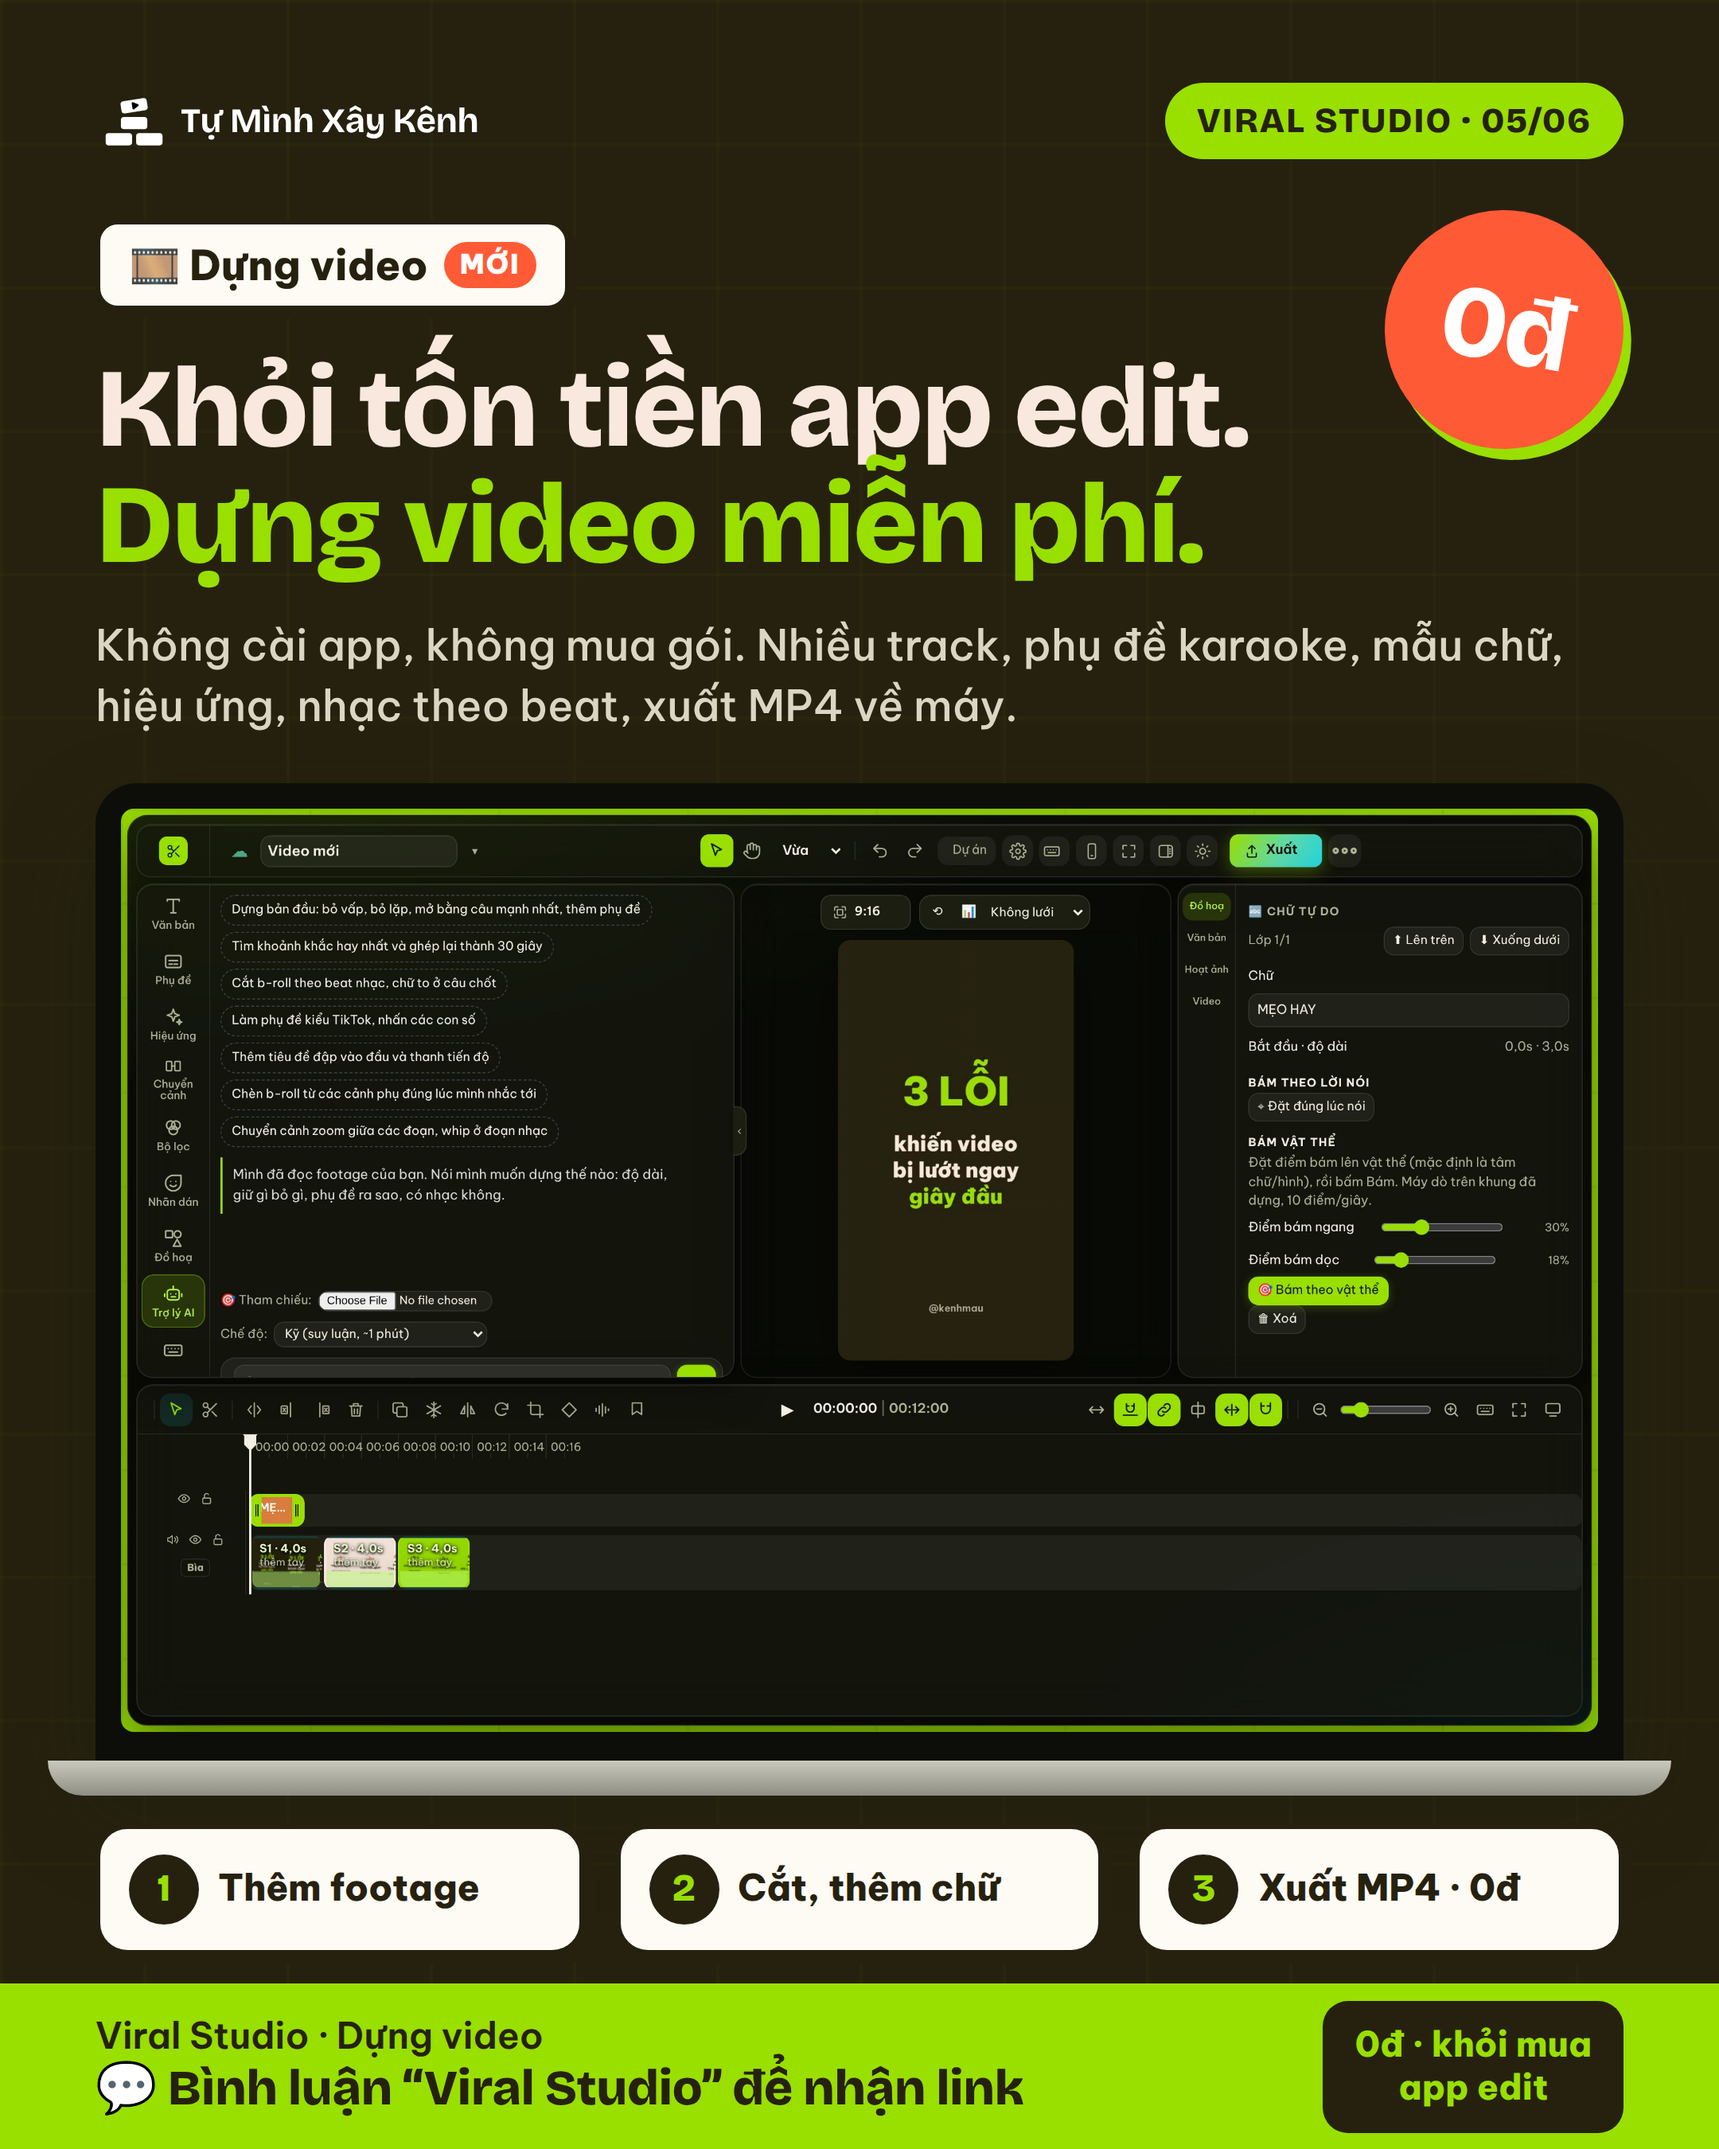
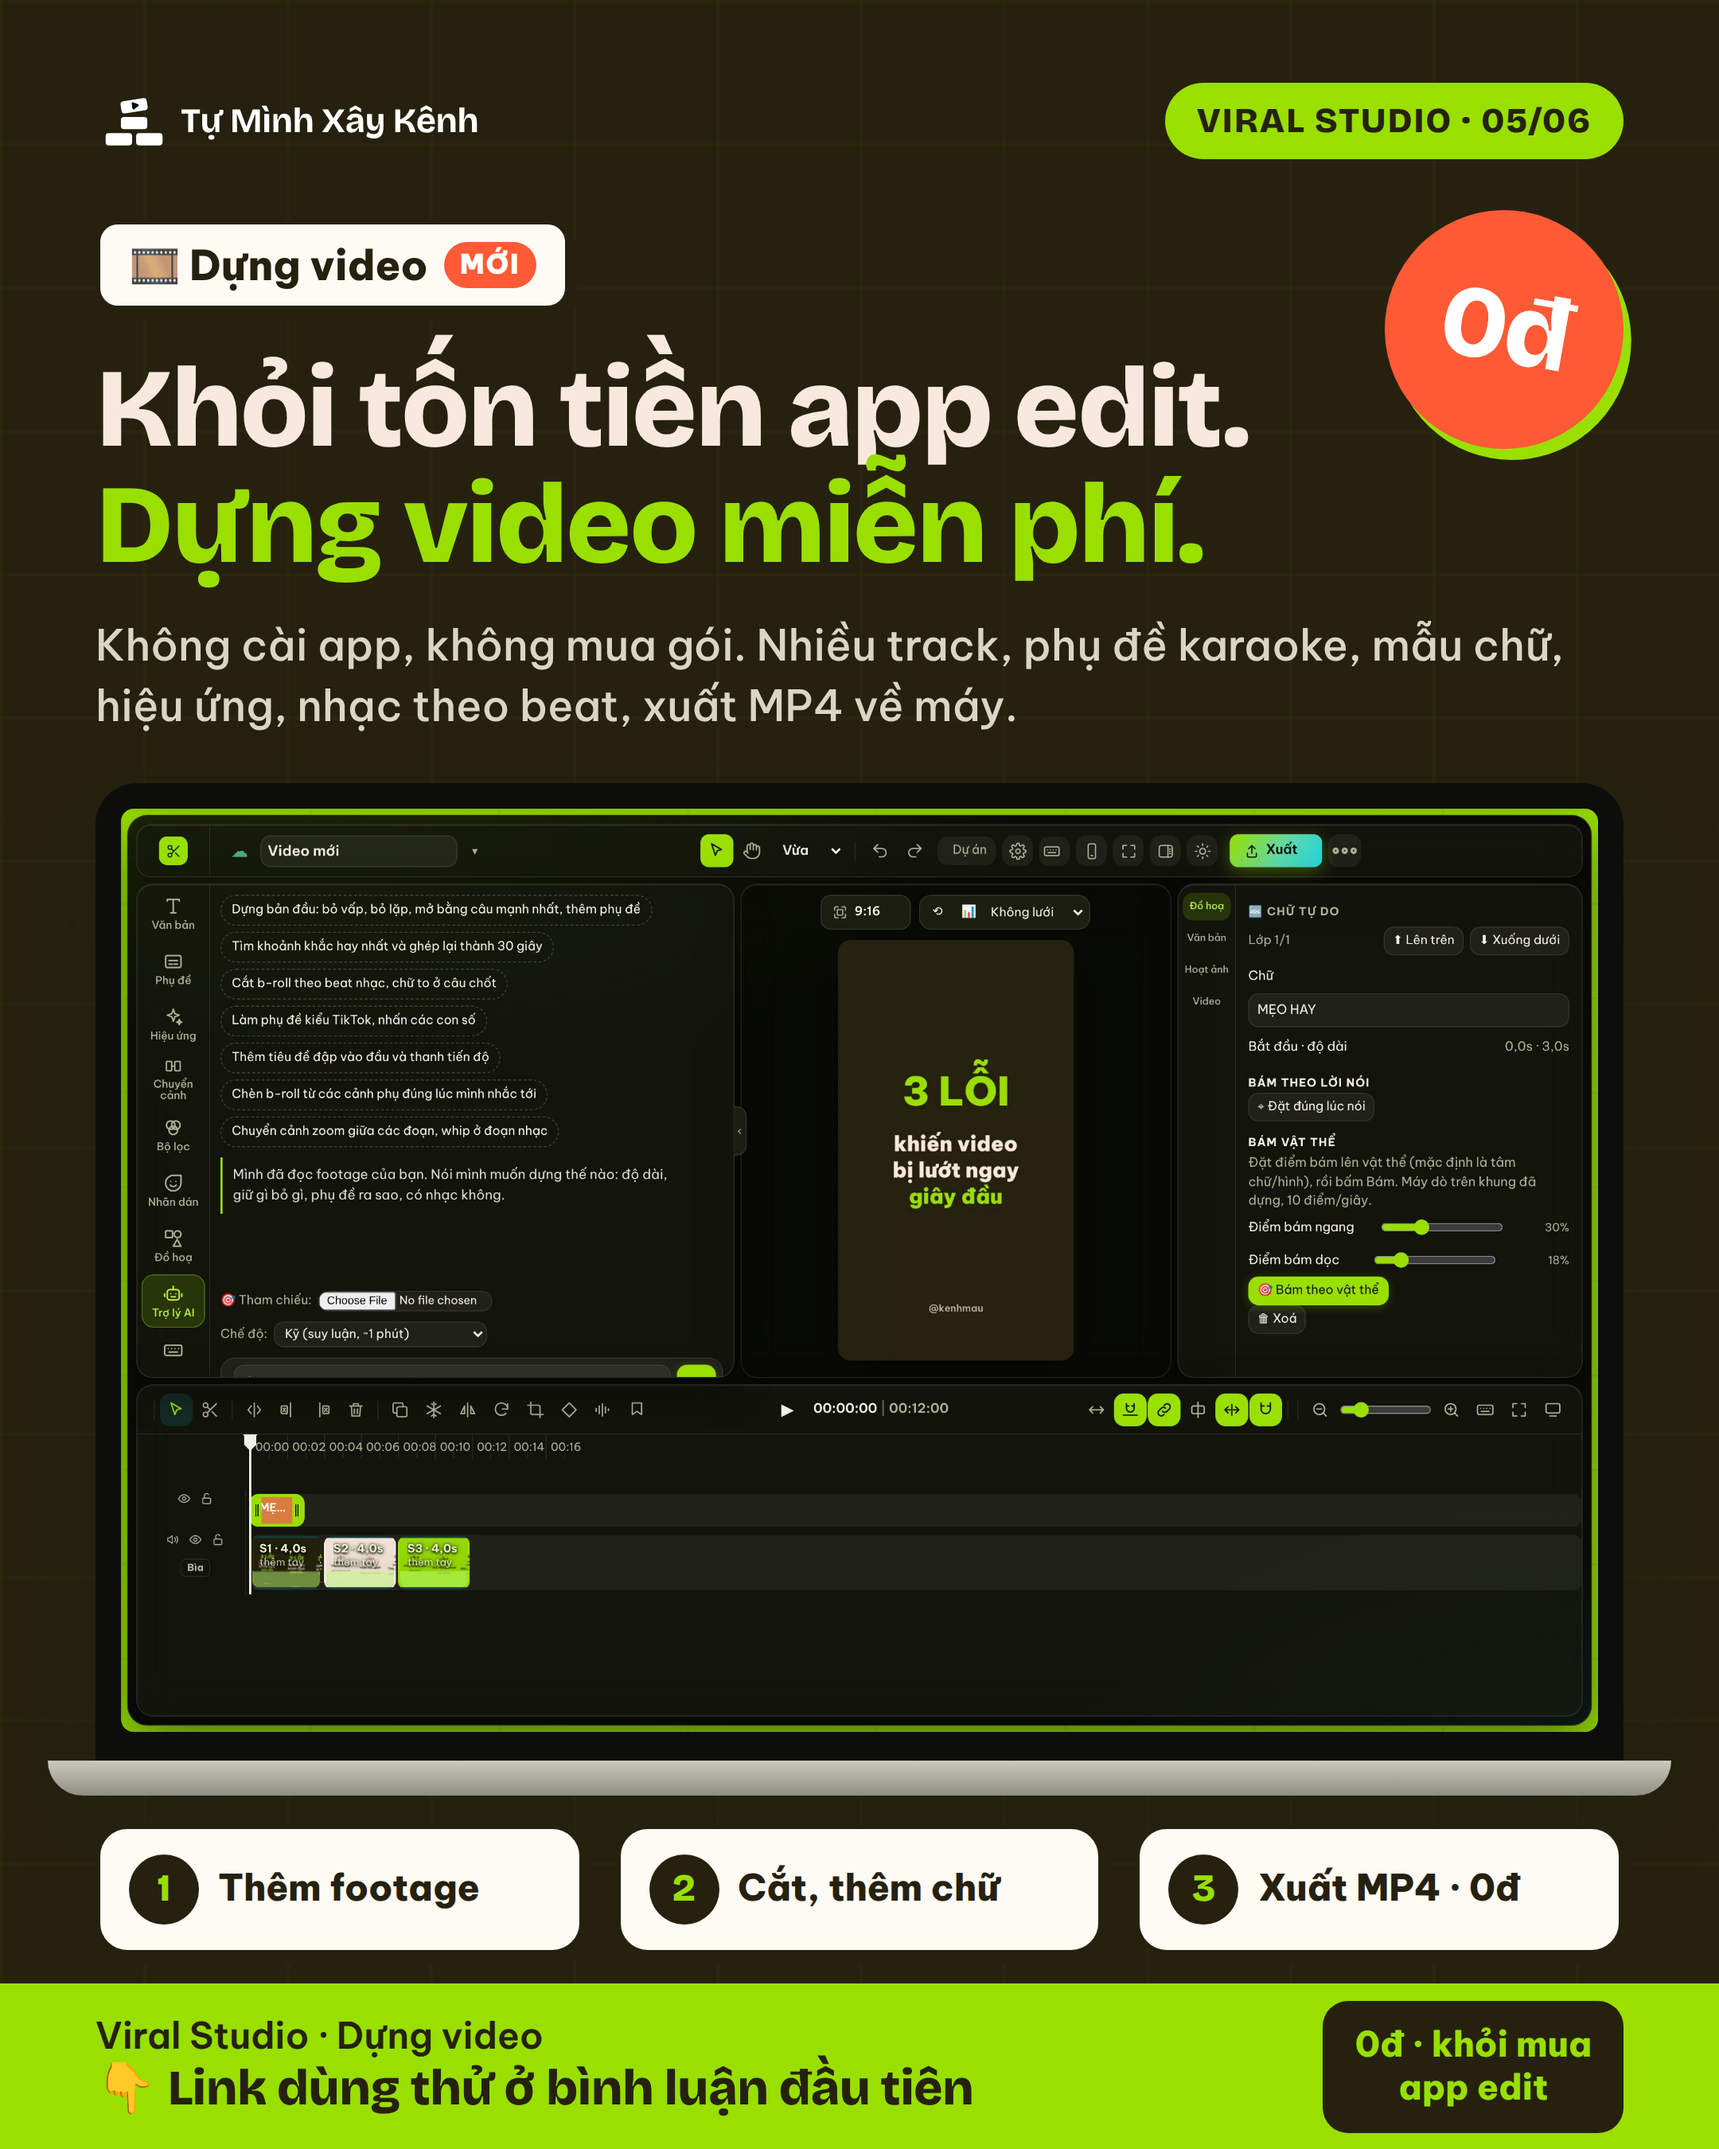
Poster Facebook: bỏ câu bình luận từ khoá để không bị Meta hạ hiển thị, link chuyển sang bình luận ghim
Caption mỗi bài thêm một mẹo lấy từ tool và câu hỏi mở cuối bài, kèm hướng dẫn tránh câu tương tác.

Claude-Session: https://claude.ai/code/session_01DLoQkHnYKA1ATrTvxbMQPm

Changed region(s): [[0.062, 0.9333, 0.5894, 0.9956]]

diff --git a/poster-fb/poster.html b/poster-fb/poster.html
@@ -129,7 +129,7 @@
     <div class="o"><i>MỚI</i><div class="anh" style="background-image:url(anh/cv-2.jpg)"></div><div class="chu"><h3>🎯 Chấm video</h3><p>AI xem trọn video bạn làm, chỉ đúng giây đang hỏng.</p></div></div>
   </div>
   <div class="ghichu">Ảnh chụp giao diện thật · dữ liệu minh hoạ</div>
-  <div class="chan"><div class="link">Viral Studio · 6 tool làm video viral<b>💬 Bình luận “Viral Studio” để nhận link</b></div><div class="hv">Dùng thử miễn phí<br>không cần cài app</div></div>
+  <div class="chan"><div class="link">Viral Studio · 6 tool làm video viral<b>👇 Link dùng thử ở bình luận đầu tiên</b></div><div class="hv">Dùng thử miễn phí<br>không cần cài app</div></div>
 </section>
 
 <!-- ═══════════ 01 · TẢI VIDEO ═══════════ -->
@@ -148,7 +148,7 @@
   </ol>
   <div class="zoom" style="--src:url(anh/tai-3.jpg);--x:30;--y:465;--cw:330;--ch:125;--k:1.5;right:66px;bottom:136px"><em>Không logo</em></div>
   <div class="ghichu">Ảnh chụp giao diện thật · dữ liệu minh hoạ</div>
-  <div class="chan"><div class="link">Viral Studio · Tải video<b>💬 Bình luận “Viral Studio” để nhận link</b></div><div class="hv">Miễn phí<br>không logo, không app</div></div>
+  <div class="chan"><div class="link">Viral Studio · Tải video<b>👇 Link dùng thử ở bình luận đầu tiên</b></div><div class="hv">Miễn phí<br>không logo, không app</div></div>
 </section>
 
 <section class="poster giay" id="01b-tai-video-cach-dung">
@@ -160,7 +160,7 @@
     <div class="cot"><span class="soto">3</span><div class="dt"><div class="man"><img src="anh/tai-3.jpg" alt=""></div></div><h4>Chọn file, Tải về</h4><p>Video HD không logo, nhạc nền, ảnh bìa.</p></div>
   </div>
   <div class="ghichu" style="top:auto;bottom:116px">Chỉ tải nội dung bạn có quyền dùng · tải về để học, không đăng lại nguyên bản</div>
-  <div class="chan"><div class="link">Viral Studio · Tải video<b>💬 Bình luận “Viral Studio” để nhận link</b></div><div class="hv">Miễn phí<br>không logo, không app</div></div>
+  <div class="chan"><div class="link">Viral Studio · Tải video<b>👇 Link dùng thử ở bình luận đầu tiên</b></div><div class="hv">Miễn phí<br>không logo, không app</div></div>
 </section>
 
 <!-- ═══════════ 02 · SOI VIDEO VIRAL ═══════════ -->
@@ -179,7 +179,7 @@
   </ol>
   <div class="zoom" style="--src:url(anh/soi-cua3.jpg);--x:0;--y:90;--cw:390;--ch:140;--k:1.28;right:66px;bottom:136px"><em>Khuôn để mượn</em></div>
   <div class="ghichu">Ảnh chụp giao diện thật · dữ liệu minh hoạ</div>
-  <div class="chan"><div class="link">Viral Studio · Soi video viral<b>💬 Bình luận “Viral Studio” để nhận link</b></div><div class="hv">Dùng thử AI<br>miễn phí</div></div>
+  <div class="chan"><div class="link">Viral Studio · Soi video viral<b>👇 Link dùng thử ở bình luận đầu tiên</b></div><div class="hv">Dùng thử AI<br>miễn phí</div></div>
 </section>
 
 <section class="poster giay" id="02b-soi-video-cach-dung">
@@ -190,7 +190,7 @@
     <div class="cot"><span class="soto">2</span><div class="dt"><div class="man"><img src="anh/soi-2.jpg" alt=""></div></div><h4>Đọc phần tóm tắt</h4><p>Ngách, dạng video, tệp người xem, lời thoại theo giây.</p></div>
     <div class="cot"><span class="soto">3</span><div class="dt"><div class="man"><img src="anh/soi-3.jpg" alt=""></div></div><h4>Mượn khuôn 3 cửa</h4><p>Kèm hook và lời thoại mẫu cho kênh bạn.</p></div>
   </div>
-  <div class="chan"><div class="link">Viral Studio · Soi video viral<b>💬 Bình luận “Viral Studio” để nhận link</b></div><div class="hv">Dùng thử AI<br>miễn phí</div></div>
+  <div class="chan"><div class="link">Viral Studio · Soi video viral<b>👇 Link dùng thử ở bình luận đầu tiên</b></div><div class="hv">Dùng thử AI<br>miễn phí</div></div>
 </section>
 
 <!-- ═══════════ 03 · HOOK VIRAL ═══════════ -->
@@ -209,7 +209,7 @@
   </ol>
   <div class="zoom" style="--src:url(anh/hook-2.jpg);--x:20;--y:665;--cw:355;--ch:148;--k:1.4;right:66px;bottom:136px"><em>Kéo vào CapCut</em></div>
   <div class="ghichu">Ảnh chụp giao diện thật · dữ liệu minh hoạ</div>
-  <div class="chan"><div class="link">Viral Studio · Hook viral<b>💬 Bình luận “Viral Studio” để nhận link</b></div><div class="hv">Dùng thử AI<br>miễn phí</div></div>
+  <div class="chan"><div class="link">Viral Studio · Hook viral<b>👇 Link dùng thử ở bình luận đầu tiên</b></div><div class="hv">Dùng thử AI<br>miễn phí</div></div>
 </section>
 
 <section class="poster giay" id="03b-hook-viral-cach-dung">
@@ -220,7 +220,7 @@
     <div class="cot"><span class="soto">2</span><div class="dt"><div class="man"><img src="anh/hook-3.jpg" alt=""></div></div><h4>Bấm Phân tích</h4><p>Điểm hook gốc và 5 bản viết lại. Bấm Dùng để thay.</p></div>
     <div class="cot"><span class="soto">3</span><div class="dt"><div class="man"><img src="anh/hook-2.jpg" alt=""></div></div><h4>Chỉnh chữ, xuất PNG</h4><p>Kéo chữ, đổi bố cục, nhấn màu từ khoá.</p></div>
   </div>
-  <div class="chan"><div class="link">Viral Studio · Hook viral<b>💬 Bình luận “Viral Studio” để nhận link</b></div><div class="hv">Dùng thử AI<br>miễn phí</div></div>
+  <div class="chan"><div class="link">Viral Studio · Hook viral<b>👇 Link dùng thử ở bình luận đầu tiên</b></div><div class="hv">Dùng thử AI<br>miễn phí</div></div>
 </section>
 
 <!-- ═══════════ 04 · KỊCH BẢN VIRAL ═══════════ -->
@@ -239,7 +239,7 @@
   </ol>
   <div class="zoom" style="--src:url(anh/kb-2.jpg);--x:15;--y:460;--cw:362;--ch:140;--k:1.38;right:66px;bottom:136px"><em>Canh từng giây</em></div>
   <div class="ghichu">Ảnh chụp giao diện thật · dữ liệu minh hoạ</div>
-  <div class="chan"><div class="link">Viral Studio · Kịch bản viral<b>💬 Bình luận “Viral Studio” để nhận link</b></div><div class="hv">Dùng thử AI<br>miễn phí</div></div>
+  <div class="chan"><div class="link">Viral Studio · Kịch bản viral<b>👇 Link dùng thử ở bình luận đầu tiên</b></div><div class="hv">Dùng thử AI<br>miễn phí</div></div>
 </section>
 
 <section class="poster giay" id="04b-kich-ban-cach-dung">
@@ -250,7 +250,7 @@
     <div class="cot"><span class="soto">2</span><div class="dt"><div class="man"><img src="anh/kb-2.jpg" alt=""></div></div><h4>Viết theo gợi ý</h4><p>Số giây từng phần hiện ngay bên cạnh.</p></div>
     <div class="cot"><span class="soto">3</span><div class="dt"><div class="man"><img src="anh/kb-3.jpg" alt=""></div></div><h4>Bấm Chấm</h4><p>Sửa theo góp ý hoặc để AI viết lại cả bài.</p></div>
   </div>
-  <div class="chan"><div class="link">Viral Studio · Kịch bản viral<b>💬 Bình luận “Viral Studio” để nhận link</b></div><div class="hv">Dùng thử AI<br>miễn phí</div></div>
+  <div class="chan"><div class="link">Viral Studio · Kịch bản viral<b>👇 Link dùng thử ở bình luận đầu tiên</b></div><div class="hv">Dùng thử AI<br>miễn phí</div></div>
 </section>
 
 <!-- ═══════════ 05 · DỰNG VIDEO ═══════════ -->
@@ -267,7 +267,7 @@
     <li style="padding:16px 18px"><div style="display:flex;gap:12px;align-items:center"><b style="width:44px;height:44px;font-size:24px">2</b><strong style="font-size:23px">Cắt, thêm chữ</strong></div></li>
     <li style="padding:16px 18px"><div style="display:flex;gap:12px;align-items:center"><b style="width:44px;height:44px;font-size:24px">3</b><strong style="font-size:23px">Xuất MP4 · 0đ</strong></div></li>
   </ol>
-  <div class="chan"><div class="link">Viral Studio · Dựng video<b>💬 Bình luận “Viral Studio” để nhận link</b></div><div class="hv">0đ · khỏi mua<br>app edit</div></div>
+  <div class="chan"><div class="link">Viral Studio · Dựng video<b>👇 Link dùng thử ở bình luận đầu tiên</b></div><div class="hv">0đ · khỏi mua<br>app edit</div></div>
 </section>
 
 <section class="poster giay" id="05b-dung-video-cach-dung">
@@ -279,7 +279,7 @@
     <li style="padding:16px 20px"><b>2</b><div><strong>Thêm chữ, phụ đề, nhạc rồi Xuất MP4</strong><span>Mẫu chữ có sẵn, phụ đề karaoke, hiệu ứng. Muốn nhanh hơn thì nhờ Trợ lý AI dựng giúp.</span></div></li>
   </ol>
   <div class="ghichu" style="top:auto;bottom:116px">Mẹo: mở trên máy tính để dựng thoải mái nhất</div>
-  <div class="chan"><div class="link">Viral Studio · Dựng video<b>💬 Bình luận “Viral Studio” để nhận link</b></div><div class="hv">0đ · khỏi mua<br>app edit</div></div>
+  <div class="chan"><div class="link">Viral Studio · Dựng video<b>👇 Link dùng thử ở bình luận đầu tiên</b></div><div class="hv">0đ · khỏi mua<br>app edit</div></div>
 </section>
 
 <!-- ═══════════ 06 · CHẤM VIDEO ═══════════ -->
@@ -298,7 +298,7 @@
   </ol>
   <div class="zoom" style="--src:url(anh/cv-3.jpg);--x:15;--y:122;--cw:362;--ch:128;--k:1.32;right:66px;bottom:136px"><em>Lỗi theo từng giây</em></div>
   <div class="ghichu">Ảnh chụp giao diện thật · dữ liệu minh hoạ</div>
-  <div class="chan"><div class="link">Viral Studio · Chấm video của bạn<b>💬 Bình luận “Viral Studio” để nhận link</b></div><div class="hv">Dùng thử AI<br>miễn phí</div></div>
+  <div class="chan"><div class="link">Viral Studio · Chấm video của bạn<b>👇 Link dùng thử ở bình luận đầu tiên</b></div><div class="hv">Dùng thử AI<br>miễn phí</div></div>
 </section>
 
 <section class="poster giay" id="06b-cham-video-cach-dung">
@@ -309,7 +309,7 @@
     <div class="cot"><span class="soto">2</span><div class="dt"><div class="man"><img src="anh/cv-3.jpg" alt=""></div></div><h4>Xem lỗi theo giây</h4><p>Nặng, vừa, nhẹ, kèm cách sửa cho từng chỗ.</p></div>
     <div class="cot"><span class="soto">3</span><div class="dt"><div class="man"><img src="anh/cv-4.jpg" alt=""></div></div><h4>Lấy 3 kịch bản tiếp</h4><p>Bám đúng kênh bạn, AI viết trọn được luôn.</p></div>
   </div>
-  <div class="chan"><div class="link">Viral Studio · Chấm video của bạn<b>💬 Bình luận “Viral Studio” để nhận link</b></div><div class="hv">Dùng thử AI<br>miễn phí</div></div>
+  <div class="chan"><div class="link">Viral Studio · Chấm video của bạn<b>👇 Link dùng thử ở bình luận đầu tiên</b></div><div class="hv">Dùng thử AI<br>miễn phí</div></div>
 </section>
 
 </body>
